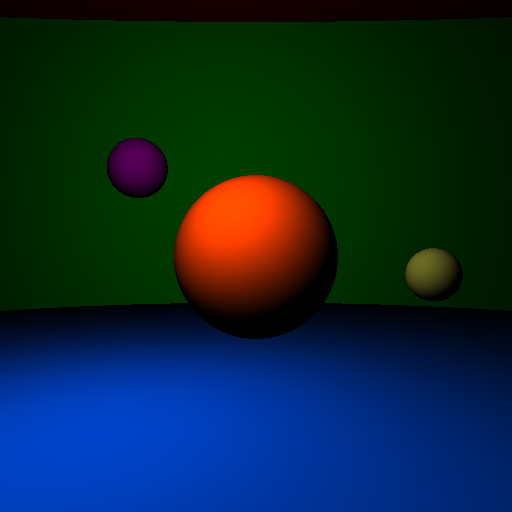
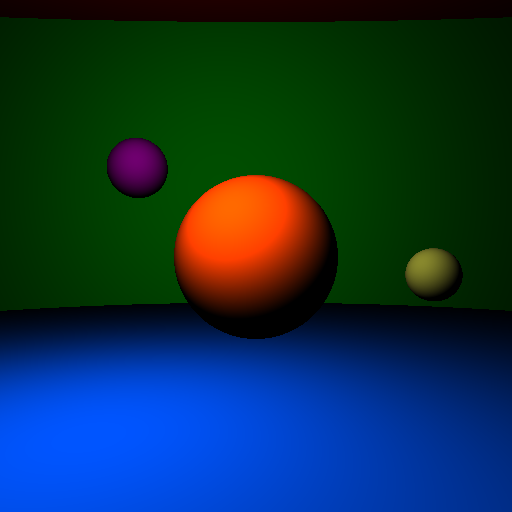
Fixed normalisation

diff --git a/main.cpp b/main.cpp
@@ -173,7 +173,7 @@ int main()
     Vector L(-10, 20, 30);        // Source de lumière
     double fov = 60 * M_PI / 180; // Field of view 60°
     double tanfov2 = tan(fov / 2);
-    double I = 50000; // Intensité de la lumière
+    double I = 10000000; // Intensité de la lumière
 
     Scene scene;
 
@@ -233,10 +233,10 @@ int main()
                 l.normalize();
                 Vector rho = scene.liste_spheres[id_sphere].albedo;
 
-                Vector col = rho * I * std::max(0., dot(l, n) / lnorm2 * 4 * M_PI); //on clamp à 0 pour pas avoir une intensité négative
-                image[(i * W + j) * 3 + 0] = std::min(255., col[0]);                // R
-                image[(i * W + j) * 3 + 1] = std::min(255., col[1]);                // G
-                image[(i * W + j) * 3 + 2] = std::min(255., col[2]);                // B
+                Vector col = rho * I * std::max(0., dot(l, n)) / (lnorm2 * 4 * M_PI); //on clamp à 0 pour pas avoir une intensité négative
+                image[(i * W + j) * 3 + 0] = std::min(255., col[0]);                  // R
+                image[(i * W + j) * 3 + 1] = std::min(255., col[1]);                  // G
+                image[(i * W + j) * 3 + 2] = std::min(255., col[2]);                  // B
             }
         }
     }
